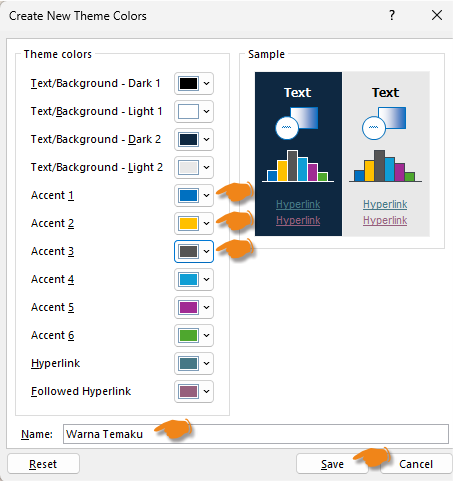
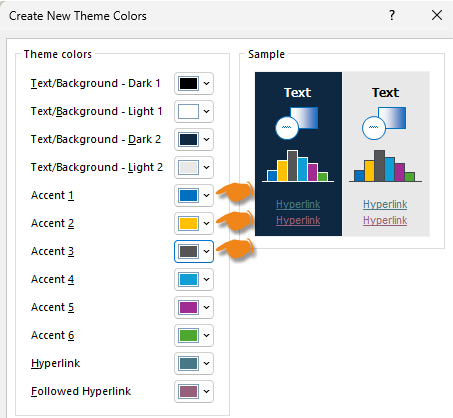
M

Changed region(s): [[0.0, 0.0, 1.0, 1.0], [0.7726, 0.1866, 0.9272, 0.5598], [0.1545, 0.0, 0.1854, 0.0311]]

diff --git a/materi-powerpoint.html b/materi-powerpoint.html
@@ -4472,50 +4472,6 @@
                                         class="img-fluid shadow rounded">
                                     </div>
                                   </div>
-
-                                  <!-- <table class="table table-sm table-bordered w-auto my-1">
-                                    <thead>
-                                      <tr>
-                                        <th>Theme Color</th>
-                                        <th>Warna</th>
-                                        <th>HEX</th>
-                                        <th>Fungsi</th>
-                                      </tr>
-                                    </thead>
-                                    <tbody>
-                                      <tr>
-                                        <td>Accent 1</td>
-                                        <td>🔵 Biru</td>
-                                        <td>#0B5ED7</td>
-                                        <td>Warna utama (Primary)</td>
-                                      </tr>
-                                      <tr>
-                                        <td>Accent 2</td>
-                                        <td>🟠 Orange</td>
-                                        <td>#F39C12</td>
-                                        <td>Warna aksen</td>
-                                      </tr>
-                                      <tr>
-                                        <td>Accent 3</td>
-                                        <td>⚫ Abu-abu</td>
-                                        <td>#555555</td>
-                                        <td>Warna sekunder</td>
-                                      </tr>
-                                      <tr>
-                                        <td>Background / Light 1</td>
-                                        <td>⚪ Putih</td>
-                                        <td>#FFFFFF</td>
-                                        <td>Latar belakang</td>
-                                      </tr>
-                                    </tbody>
-                                  </table> -->
-                                  </p>
-                                  <!-- <p>Beri nama warna Tema, misalnya "Tema Biru Korporat" <br>
-                                    Klik <strong>Save</strong>.
-                                  <div class="my-3">
-                                    <img src="assets/img/nama-warna-Tema.png" alt="" class="img-fluid shadow rounded">
-                                  </div>
-                                  </p> -->
                                 </li>
                                 <li>
                                   Untuk Tema seluruh halaman Slide bisa dipilih di
@@ -4531,6 +4487,10 @@
                               </div>
                               <div class="my-3">
                                 <img src="assets/img/Colors-More.png" alt="" class="img-fluid shadow rounded">
+                              </div>
+                              Simpan dengan nama "<strong>Warna Temaku</strong>".
+                              <div class="my-3">
+                                <img src="assets/img/Colors-More2.png" alt="" class="img-fluid shadow rounded">
                               </div>
                             </div>
                           </div><!-- /row -->
